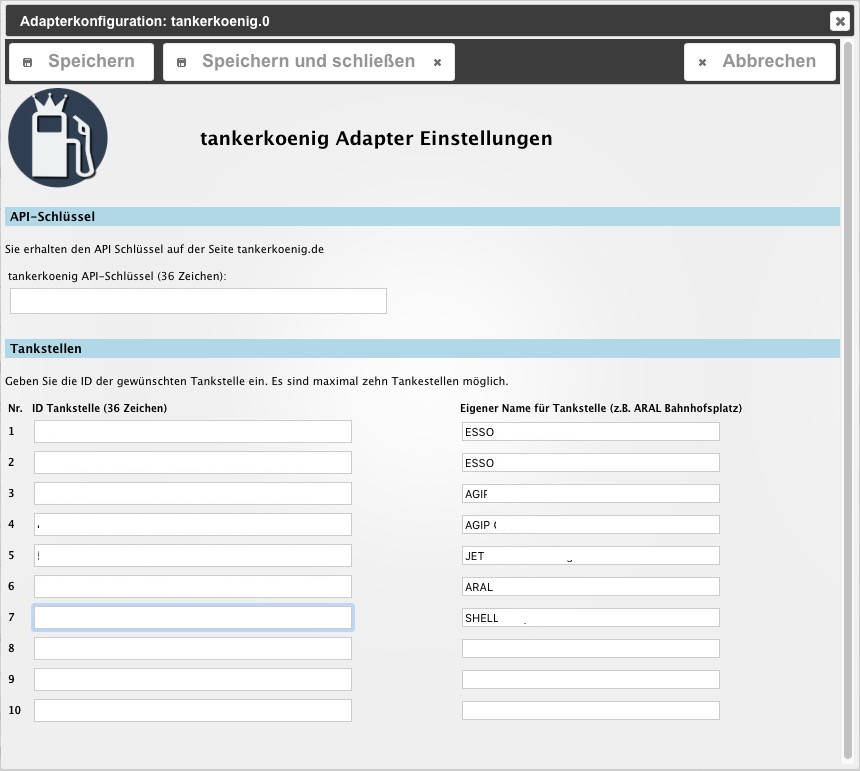
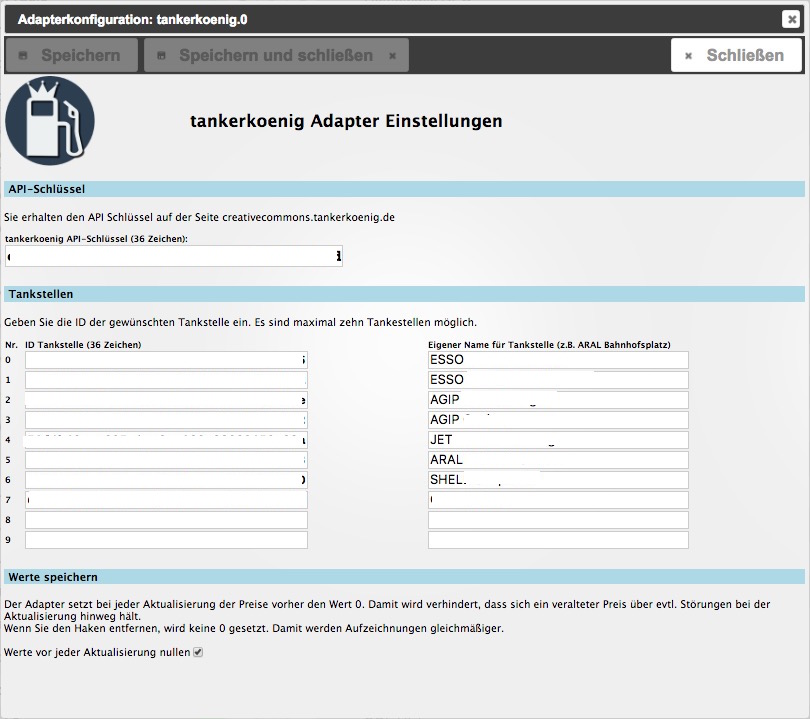
Version 1.0.0

Changed region(s): [[0.0, 0.0, 1.0, 1.0], [0.216, 0.153, 0.6481, 0.2142], [0.4012, 0.3366, 0.4321, 0.3672]]

diff --git a/admin/index.html b/admin/index.html
@@ -113,18 +113,18 @@
                 "de": "Nr.",
                 "ru": "#"
             },
-            "Werte speichern": {
-                "en": "Saving values",
-                "de": "Werte speichern",
-                "ru": "Werte speichern (übersetzen)"
+            "Werte nullen": {
+                "en": "Reset values",
+                "de": "Werte nullen",
+                "ru": "Werte nullen (übersetzen)"
             },
             "Der Adapter ...": {
-                "en": "The adapter resets all prices on every scheduled refresh. This function prevents from saving outdated values if any error occurs while updating from the server.<br>To keep the data fluently without zeroes tick off this box.",
+                "en": "The adapter resets all prices before every scheduled refresh. This function prevents from saving outdated values if any error occurs while updating from the tankerkoenig-server.<br>To keep the data fluently without zeroes tick off this box.",
                 "de": "Der Adapter setzt bei jeder Aktualisierung der Preise vorher den Wert 0. Damit wird verhindert, dass sich ein veralteter Preis über evtl. Störungen bei der Aktualisierung hinweg hält.<br>Wenn Sie den Haken entfernen, wird keine 0 gesetzt. Damit werden Aufzeichnungen gleichmäßiger.",
                 "ru": "Der Adapter setzt bei jeder Aktualisierung der Preise vorher den Wert 0. Damit wird verhindert, dass sich ein veralteter Preis über evtl. Störungen bei der Aktualisierung hinweg hält.<br>Wenn Sie den Haken entfernen, wird keine 0 gesetzt. Damit werden Aufzeichnungen gleichmäßiger. (übersetzen)"
             },
             "Reset": {
-                "en": "Reset values.",
+                "en": "Reset values",
                 "de": "Werte vor jeder Aktualisierung nullen",
                 "ru": "Werte vor jeder Aktualisierung nullen (übersetzen)"
             }
@@ -306,7 +306,7 @@
         </tr>
     </table>
     
-    <h4 class="translate" style="margin-top: 20px; width: calc(100% - 10px)">Werte speichern</h4>
+    <h4 class="translate" style="margin-top: 20px; width: calc(100% - 10px)">Werte nullen</h4>
     <p class="translate">Der Adapter ...</p>
     <table id="config" style="width: calc(100% - 5px)">
         <tr>

diff --git a/README.md b/README.md
@@ -21,8 +21,11 @@ Es können bis zu 10 Tankstellen abgefragt werden. Dazu ist die Eingabe der Tank
 Zusätzlich kann ein eigener Name für die Station hinterlegt werden. Bei der Eingabe können Zeilen frei gelassen werden (um später ein weitere Tankstelle einzufügen oder nach dem Löschen einer Station).
 ![alt text](img/tankerkoenigSettingsScreenshot.jpg "Screenshot Settings")
 
+### Werte nullen
+Sollte die Verbindung zum Server nicht funktionieren, verhindert das Löschen der Werte in den Datenpunkte (Reset bzw. nullen), dass veraltete Werte vorgehalten werden. Dieser Reset kann in den Adaptereinstellungen ausgeschaltet werden, um flüssigere History-Daten zu erhalten.
+
 ## Aktivierung / Schedule
-Der Adapter startet alle 5min. Die Daten des Quellfeeds werden vom Server bei tankerkoenig.de nur alle 4min aktualisiert. Sollte die Verbindung zum Server nicht funktionieren, verhindert das Löschen der Werte in den Datenpunkte, dass veraltete Werte vorgehalten werden. Dieser Reset kann in in den Adaptereinstellungen ausgeschaltet werden, um flüssigere History-Daten zu erhalten.
+Der Adapter startet alle 5min. Die Daten des Quellfeeds werden vom Server bei tankerkoenig.de nur alle 4min aktualisiert. 
 
 ##  Datenpunkte / Datapoints
 Jeder der zehn Kanäle des Feeds produziert für jede der drei Spritsorten E5, E10 und Diesel jeweils drei Datenpunkte:
@@ -71,7 +74,7 @@ Der Inhalt des Datenpunktes "combined" wird mit einer CSS-Klasse übergeben. Die
 
 
 ## Changelog
-### 0.1.3 (2016-10-08)
+### 1.0.0 (2016-10-08)
 * (pix) reset values to zero before each refresh now can be ticked off. 
 
 ### 0.1.2 (2016-07-05)
